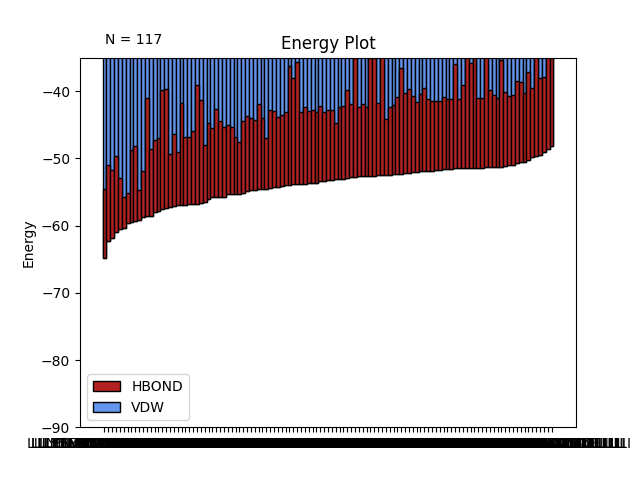
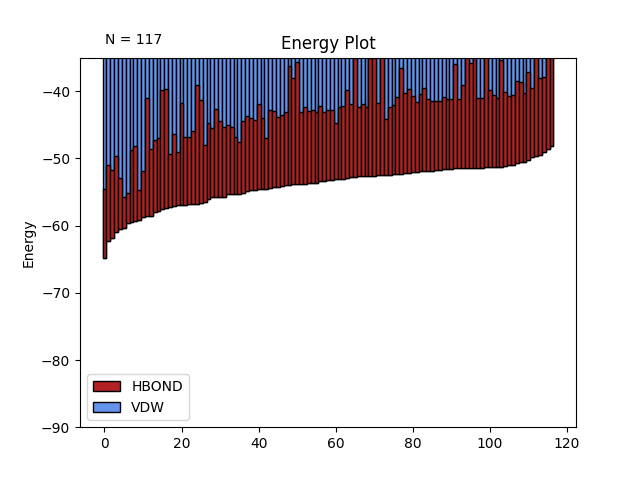
fixed small error in energy diff plotting

Changed region(s): [[0.0312, 0.9062, 1.0, 0.9375]]

diff --git a/design2AnalysisScripts/code/functions.py b/design2AnalysisScripts/code/functions.py
@@ -67,8 +67,6 @@ def plotEnergyDiffStackedBarGraph(df, outputDir):
     fig.set_dpi(2000)
     plt.ylabel('Energy')
     plt.title('Energy Plot')
-    plt.xticks(x, df['Sequence'])
-    plt.yticks(np.arange(-70, 0, 10))
     plt.ylim(-90,-35)
     plt.yticks(np.arange(-90, -30, 10))
     plt.legend((p2[0], p1[0]), ('HBOND', 'VDW'))
